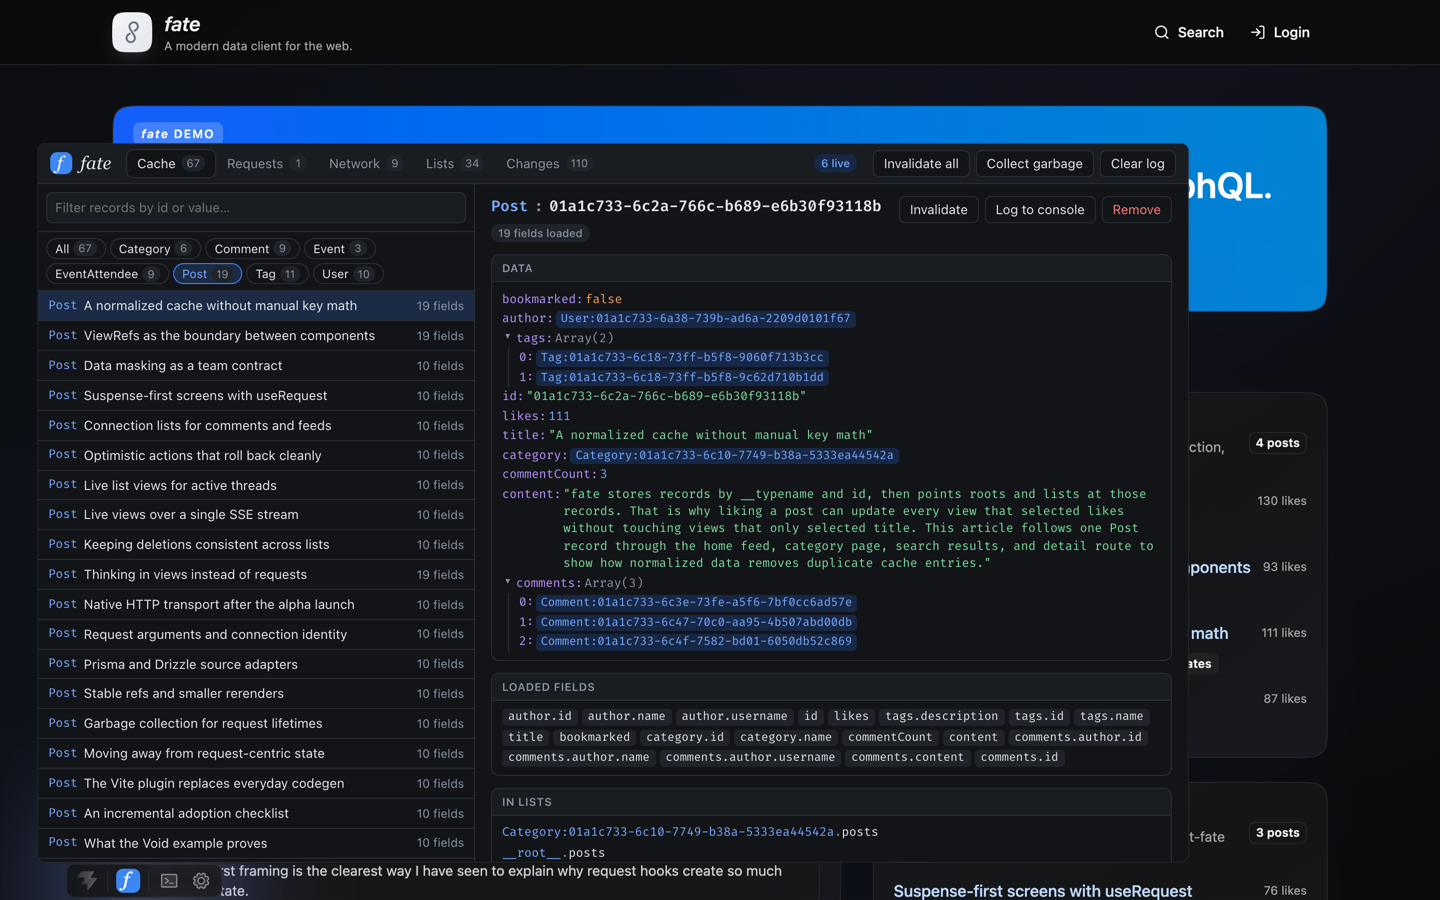
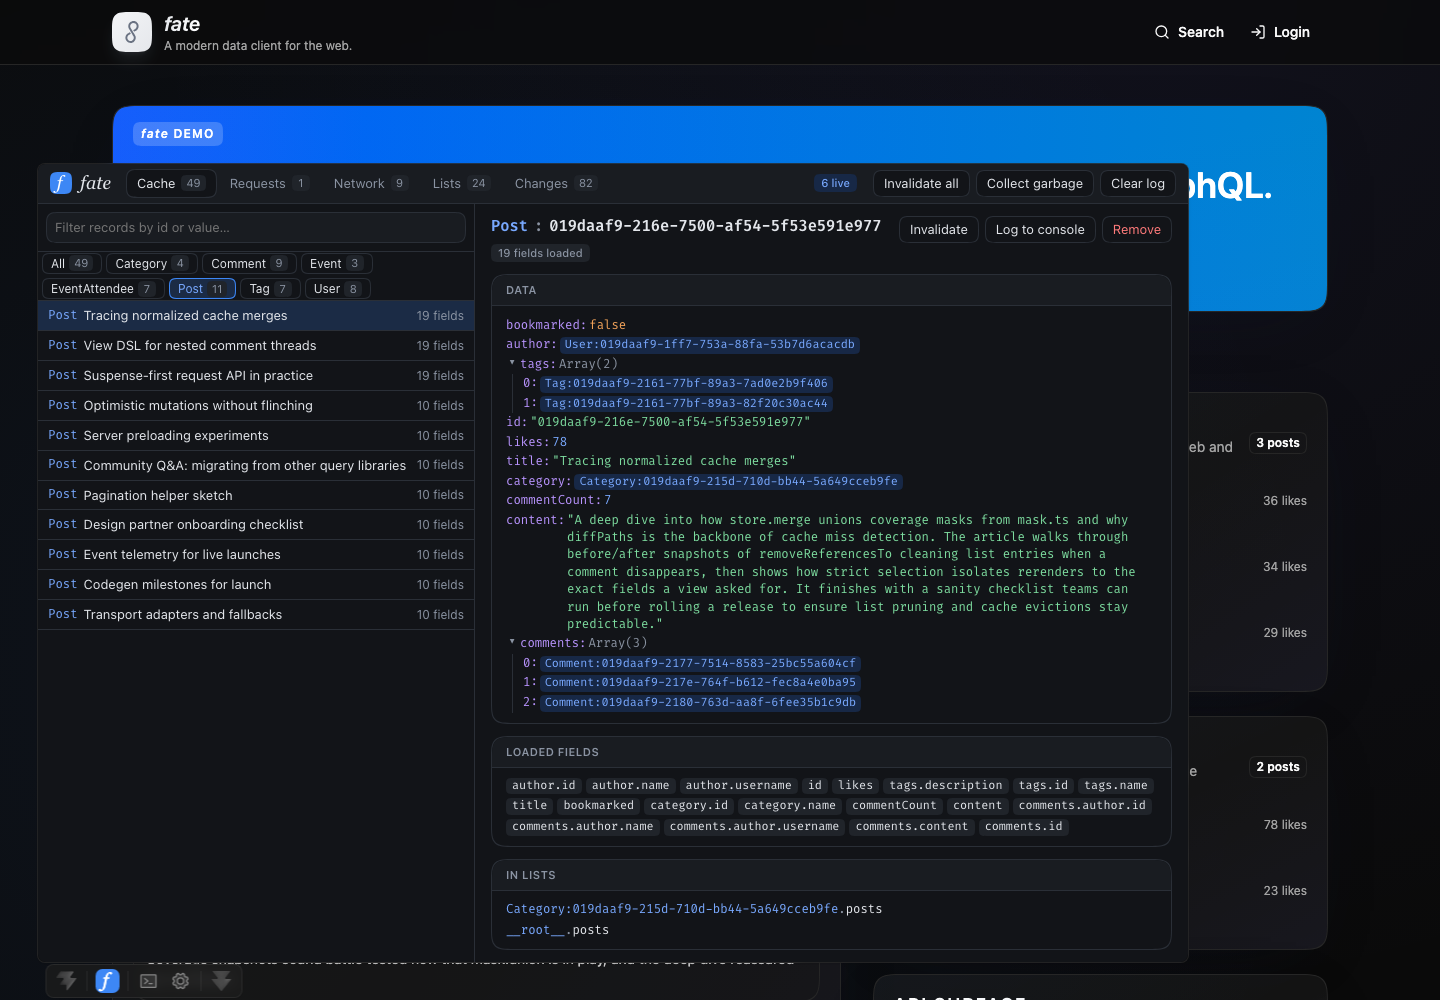
Refresh devtools screenshots, copy, and tab spacing

diff --git a/packages/fate-devtools/panel/styles.css b/packages/fate-devtools/panel/styles.css
@@ -157,7 +157,7 @@ code,
 
 .tabs {
   display: flex;
-  gap: 2px;
+  gap: 4px;
 }
 
 .tab {

diff --git a/README.md b/README.md
@@ -2155,7 +2155,7 @@ Views, requests, caching, and mutations work the same way in both adapters. Vue 
 
 ## Devtools
 
-_fate_ comes with devtools that show what your client is doing while you build your app. They work like TanStack Query's devtools and run as a panel in [Vite DevTools](https://devtools.vite.dev/), next to the other tools for your app.
+_fate_ comes with devtools that show what your client is doing while you build your app. They run as a panel in [Vite DevTools](https://devtools.vite.dev/), next to the other tools for your app.
 
 <p align="center">
   <img alt="The fate devtools panel in Vite DevTools" src="/public/devtools.png#gh-light-mode-only" width="100%">

diff --git a/docs/guide/devtools.md b/docs/guide/devtools.md
@@ -1,6 +1,6 @@
 # Devtools
 
-_fate_ comes with devtools that show what your client is doing while you build your app. They work like TanStack Query's devtools and run as a panel in [Vite DevTools](https://devtools.vite.dev/), next to the other tools for your app.
+_fate_ comes with devtools that show what your client is doing while you build your app. They run as a panel in [Vite DevTools](https://devtools.vite.dev/), next to the other tools for your app.
 
 <p align="center">
   <img alt="The fate devtools panel in Vite DevTools" src="/public/devtools.png#gh-light-mode-only" width="100%">
